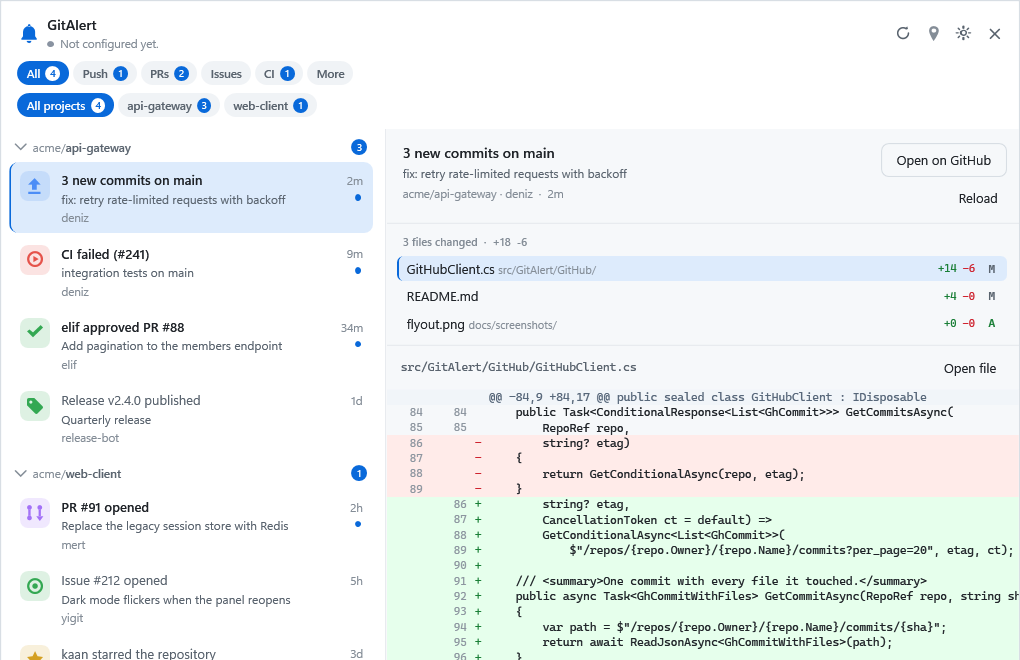
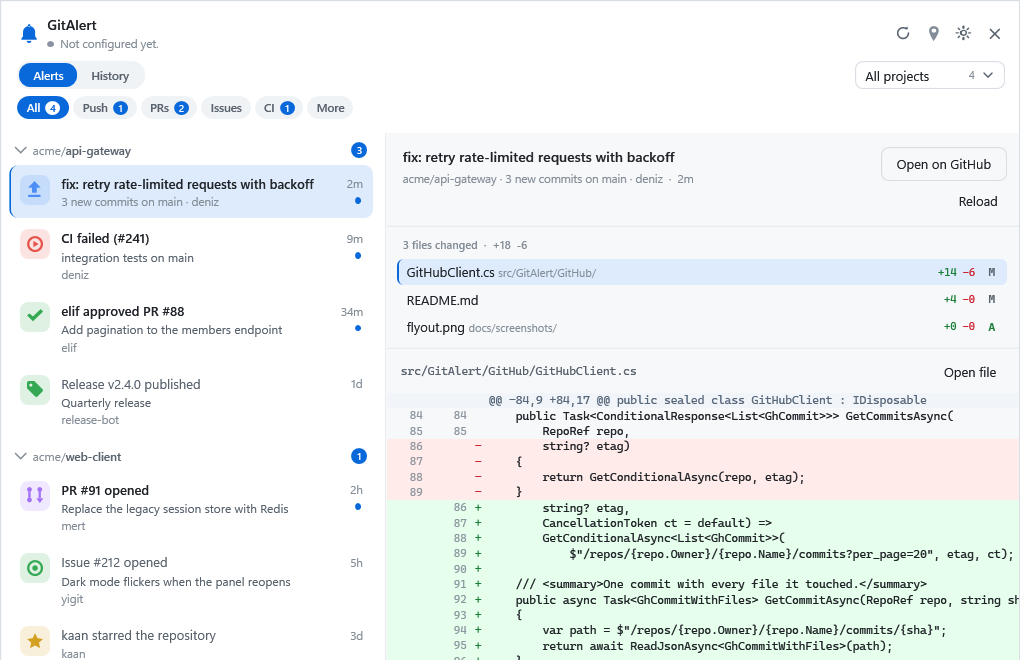
change: stop the filter chrome from crowding out the alerts
Each new axis had been given its own row of pills, and three rows of identical
shapes had grown above the list: nothing had any hierarchy, and the controls
took more height than the first alert.

Mode is now a segmented control in a toolbar, project is a picker on the right
of the same row, and only the category chips keep a row of their own - which
they earn, being the filter reached for most and the one whose counts are worth
reading at a glance. Two rows instead of three, and three different shapes so
the eye can tell them apart.

Rows also led with the wrong half of a push. "New commit on main" is the same
sentence on every push and says nothing about which commit it is, while the
message underneath was the part worth reading. The message now takes the top
line and the headline joins the meta. And an alert caused by the same account
that saw it read "deniz - via @deniz"; the account is now named only when it is
not already obvious from who caused the alert.

diff --git a/src/GitAlert/Views/FlyoutWindow.xaml b/src/GitAlert/Views/FlyoutWindow.xaml
@@ -100,22 +100,22 @@
 
           <StackPanel Grid.Column="1" Margin="11,0,8,0" VerticalAlignment="Center">
             <TextBlock x:Name="TitleLine"
-                       Text="{Binding Title}"
+                       Text="{Binding PrimaryText}"
                        FontSize="13"
                        FontWeight="SemiBold"
                        Foreground="{DynamicResource TextPrimary}"
                        TextTrimming="CharacterEllipsis" />
 
-            <TextBlock Text="{Binding Detail}"
+            <TextBlock Text="{Binding SecondaryText}"
                        FontSize="12"
                        Margin="0,2,0,0"
                        Foreground="{DynamicResource TextSecondary}"
                        TextTrimming="CharacterEllipsis"
-                       Visibility="{Binding HasDetail, Converter={StaticResource BoolToVisibility}}" />
+                       Visibility="{Binding HasSecondaryText, Converter={StaticResource BoolToVisibility}}" />
 
             <TextBlock Text="{Binding RowMeta}"
                        FontSize="11.5"
-                       Margin="0,3,0,0"
+                       Margin="0,2,0,0"
                        Foreground="{DynamicResource TextMuted}"
                        TextTrimming="CharacterEllipsis"
                        Visibility="{Binding RowMeta, Converter={StaticResource StringToVisibility}}" />
@@ -151,11 +151,10 @@
     <!-- Alerts / History. Selection comes in through Tag so the buttons stay plain buttons. -->
     <Style x:Key="ModeChip" TargetType="Button">
       <Setter Property="Cursor" Value="Hand" />
-      <Setter Property="Margin" Value="0,0,4,0" />
       <Setter Property="Template">
         <Setter.Value>
           <ControlTemplate TargetType="Button">
-            <Border x:Name="Bg" Background="{DynamicResource ChipBackground}" CornerRadius="12" Padding="12,4">
+            <Border x:Name="Bg" Background="Transparent" CornerRadius="11" Padding="14,4">
               <TextBlock x:Name="Text"
                          Text="{TemplateBinding Content}"
                          FontSize="11.5"
@@ -545,19 +544,69 @@
 
       <!-- ==================== Filters ==================== -->
 
-      <StackPanel Grid.Row="1" Margin="16,0,16,8">
+      <StackPanel Grid.Row="1" Margin="16,0,14,8">
 
-        <StackPanel Orientation="Horizontal" Margin="0,0,0,7">
-          <Button Style="{StaticResource ModeChip}"
-                  Content="Alerts"
-                  Tag="{Binding IsAlertMode}"
-                  Command="{Binding ShowAlertsCommand}" />
-          <Button Style="{StaticResource ModeChip}"
-                  Content="History"
-                  Tag="{Binding IsHistoryMode}"
-                  ToolTip="Every commit in the repository, not only what arrived while GitAlert was running"
-                  Command="{Binding ShowHistoryCommand}" />
-        </StackPanel>
+        <!-- One toolbar, not a row of pills per axis: mode on the left, project on the right. -->
+        <Grid Margin="0,0,0,7">
+          <Grid.ColumnDefinitions>
+            <ColumnDefinition Width="Auto" />
+            <ColumnDefinition Width="*" />
+            <ColumnDefinition Width="Auto" />
+          </Grid.ColumnDefinitions>
+
+          <Border Grid.Column="0"
+                  CornerRadius="13"
+                  Padding="2"
+                  Background="{DynamicResource ChipBackground}">
+            <StackPanel Orientation="Horizontal">
+              <Button Style="{StaticResource ModeChip}"
+                      Content="Alerts"
+                      Tag="{Binding IsAlertMode}"
+                      ToolTip="What arrived while GitAlert was running"
+                      Command="{Binding ShowAlertsCommand}" />
+              <Button Style="{StaticResource ModeChip}"
+                      Content="History"
+                      Tag="{Binding IsHistoryMode}"
+                      ToolTip="Every commit in the repository, however far back"
+                      Command="{Binding ShowHistoryCommand}" />
+            </StackPanel>
+          </Border>
+
+          <ComboBox Grid.Column="2"
+                    Style="{StaticResource ModernComboBox}"
+                    MinWidth="150"
+                    MaxWidth="210"
+                    Height="28"
+                    VerticalAlignment="Center"
+                    ItemsSource="{Binding Projects}"
+                    SelectedItem="{Binding SelectedProject}"
+                    ToolTip="Narrow to one project"
+                    Visibility="{Binding HasSeveralProjects, Converter={StaticResource BoolToVisibility}}">
+            <ComboBox.ItemTemplate>
+              <DataTemplate>
+                <Grid>
+                  <Grid.ColumnDefinitions>
+                    <ColumnDefinition Width="*" />
+                    <ColumnDefinition Width="Auto" />
+                  </Grid.ColumnDefinitions>
+
+                  <TextBlock Grid.Column="0"
+                             Text="{Binding Label}"
+                             TextTrimming="CharacterEllipsis"
+                             VerticalAlignment="Center" />
+
+                  <TextBlock Grid.Column="1"
+                             Text="{Binding Count}"
+                             Margin="10,0,0,0"
+                             FontSize="10.5"
+                             Foreground="{DynamicResource TextMuted}"
+                             VerticalAlignment="Center"
+                             Visibility="{Binding HasCount, Converter={StaticResource BoolToVisibility}}" />
+                </Grid>
+              </DataTemplate>
+            </ComboBox.ItemTemplate>
+          </ComboBox>
+        </Grid>
 
         <ItemsControl ItemsSource="{Binding Filters}"
                       Visibility="{Binding IsAlertMode, Converter={StaticResource BoolToVisibility}}">
@@ -571,26 +620,6 @@
               <Button Style="{StaticResource FilterChip}"
                       Margin="0,0,4,5"
                       Command="{Binding DataContext.SelectFilterCommand, RelativeSource={RelativeSource AncestorType=Window}}"
-                      CommandParameter="{Binding}" />
-            </DataTemplate>
-          </ItemsControl.ItemTemplate>
-        </ItemsControl>
-
-        <!-- The second axis: which project. Only worth showing once there is more than one. -->
-        <ItemsControl ItemsSource="{Binding Projects}"
-                      Margin="0,3,0,0"
-                      Visibility="{Binding HasSeveralProjects, Converter={StaticResource BoolToVisibility}}">
-          <ItemsControl.ItemsPanel>
-            <ItemsPanelTemplate>
-              <WrapPanel Orientation="Horizontal" />
-            </ItemsPanelTemplate>
-          </ItemsControl.ItemsPanel>
-          <ItemsControl.ItemTemplate>
-            <DataTemplate>
-              <Button Style="{StaticResource FilterChip}"
-                      Margin="0,0,4,5"
-                      ToolTip="{Binding Tooltip}"
-                      Command="{Binding DataContext.SelectProjectCommand, RelativeSource={RelativeSource AncestorType=Window}}"
                       CommandParameter="{Binding}" />
             </DataTemplate>
           </ItemsControl.ItemTemplate>
@@ -720,18 +749,19 @@
                         </Grid.ColumnDefinitions>
 
                         <StackPanel Grid.Column="0" Margin="0,0,10,0">
-                          <TextBlock Text="{Binding Alert.Title}"
+                          <TextBlock Text="{Binding Alert.PrimaryText}"
                                      FontSize="14"
                                      FontWeight="SemiBold"
                                      Foreground="{DynamicResource TextPrimary}"
-                                     TextTrimming="CharacterEllipsis" />
+                                     TextWrapping="Wrap"
+                                     MaxHeight="56" />
 
-                          <TextBlock Text="{Binding Alert.Detail}"
+                          <TextBlock Text="{Binding Alert.SecondaryText}"
                                      Style="{StaticResource SecondaryText}"
                                      Margin="0,3,0,0"
                                      TextWrapping="Wrap"
                                      MaxHeight="54"
-                                     Visibility="{Binding Alert.HasDetail, Converter={StaticResource BoolToVisibility}}" />
+                                     Visibility="{Binding Alert.HasSecondaryText, Converter={StaticResource BoolToVisibility}}" />
 
                           <StackPanel Orientation="Horizontal" Margin="0,5,0,0">
                             <TextBlock Text="{Binding Alert.Meta}" Style="{StaticResource MutedText}" />

diff --git a/src/GitAlert/ViewModels/FlyoutViewModel.cs b/src/GitAlert/ViewModels/FlyoutViewModel.cs
@@ -168,10 +168,27 @@ public sealed partial class FlyoutViewModel : ObservableObject, IDisposable
     public bool HasHistoryMessage => !string.IsNullOrEmpty(HistoryMessage);
 
     /// <summary>
-    /// Whether narrowing by project is worth offering. With a single repository watched, the row
-    /// would be one chip that does nothing.
+    /// Whether narrowing by project is worth offering. With a single repository watched, the
+    /// control would be a menu with one entry that does nothing.
     /// </summary>
     public bool HasSeveralProjects => Projects.Count > 2;
+
+    /// <summary>
+    /// The project the list is narrowed to, as a picker rather than a row of chips: the chips
+    /// grew a row per axis and buried the alerts under their own controls.
+    /// </summary>
+    public ProjectChipViewModel? SelectedProject
+    {
+        get => Projects.FirstOrDefault(
+            p => string.Equals(p.Repository, ActiveProject, StringComparison.OrdinalIgnoreCase));
+        set
+        {
+            if (value is not null && !ReferenceEquals(value, SelectedProject))
+            {
+                SelectProject(value);
+            }
+        }
+    }
 
     /// <summary>The right-hand pane: the selected alert and the files it changed.</summary>
     public AlertDetailViewModel Detail { get; }
@@ -348,8 +365,11 @@ public sealed partial class FlyoutViewModel : ObservableObject, IDisposable
             // pane already fetched is reused rather than requested again.
             Id = $"{accountId}|commit:{commit.Sha}",
             Kind = AlertKind.Push,
-            Title = string.IsNullOrWhiteSpace(summary) ? $"Commit {Abbreviate(commit.Sha)}" : summary.Trim(),
-            Detail = Abbreviate(commit.Sha),
+
+            // Shaped like a push alert on purpose: the headline is the boilerplate and the
+            // message is the detail, which is what makes the row lead with the message.
+            Title = $"Commit {Abbreviate(commit.Sha)}",
+            Detail = string.IsNullOrWhiteSpace(summary) ? null : summary.Trim(),
             Repository = repository,
             Account = login,
             AccountId = accountId,
@@ -608,6 +628,8 @@ public sealed partial class FlyoutViewModel : ObservableObject, IDisposable
             OnPropertyChanged(nameof(HasSeveralProjects));
         }
 
+        OnPropertyChanged(nameof(SelectedProject));
+
         // A project the user had narrowed to can disappear when history is trimmed or cleared.
         if (ActiveProject is not null && !repositories.Contains(ActiveProject, StringComparer.OrdinalIgnoreCase))
         {
@@ -617,6 +639,7 @@ public sealed partial class FlyoutViewModel : ObservableObject, IDisposable
         foreach (var chip in Projects)
         {
             chip.IsSelected = string.Equals(chip.Repository, ActiveProject, StringComparison.OrdinalIgnoreCase);
+            chip.Summary = chip.Repository ?? "Every watched repository";
             chip.Count = _all.Count(a =>
                 !a.IsRead
                 && OfKind(a)

diff --git a/src/GitAlert/ViewModels/AlertViewModel.cs b/src/GitAlert/ViewModels/AlertViewModel.cs
@@ -41,6 +41,20 @@ public sealed partial class AlertViewModel : ObservableObject
 
     public bool HasDetail => !string.IsNullOrWhiteSpace(Model.Detail);
 
+    /// <summary>
+    /// The line a row leads with. For a push that is the commit message: "New commit on main" is
+    /// the same sentence on every push and says nothing about which commit this is, so it is
+    /// demoted to the meta line and the message takes the top.
+    /// </summary>
+    public string PrimaryText => LeadsWithDetail ? Model.Detail! : Model.Title;
+
+    /// <summary>The supporting line, or null when the row only needs one.</summary>
+    public string? SecondaryText => LeadsWithDetail ? null : Model.Detail;
+
+    public bool HasSecondaryText => !string.IsNullOrWhiteSpace(SecondaryText);
+
+    private bool LeadsWithDetail => Model.Kind == AlertKind.Push && HasDetail;
+
     public string Repository => Model.Repository;
 
     public string? Url => Model.Url;
@@ -69,12 +83,22 @@ public sealed partial class AlertViewModel : ObservableObject
             parts.Add(Model.Repository);
         }
 
+        // When the message has taken the top line, the headline belongs here instead.
+        if (LeadsWithDetail)
+        {
+            parts.Add(Model.Title);
+        }
+
         if (!string.IsNullOrWhiteSpace(Model.Actor))
         {
             parts.Add(Model.Actor!);
         }
 
-        if (ShowAccount && !string.IsNullOrWhiteSpace(Model.Account))
+        // "deniz · via @deniz" is the same name twice. The account is only worth naming when it
+        // is not already obvious from who caused the alert.
+        if (ShowAccount
+            && !string.IsNullOrWhiteSpace(Model.Account)
+            && !string.Equals(Model.Account, Model.Actor, StringComparison.OrdinalIgnoreCase))
         {
             parts.Add($"via @{Model.Account}");
         }

diff --git a/src/GitAlert/ViewModels/ProjectChipViewModel.cs b/src/GitAlert/ViewModels/ProjectChipViewModel.cs
@@ -29,5 +29,9 @@ public sealed partial class ProjectChipViewModel : ObservableObject
 
     public string Tooltip { get; }
 
+    /// <summary>The full slug, shown under the name in the picker.</summary>
+    [ObservableProperty]
+    private string _summary = string.Empty;
+
     public bool HasCount => Count > 0;
 }
